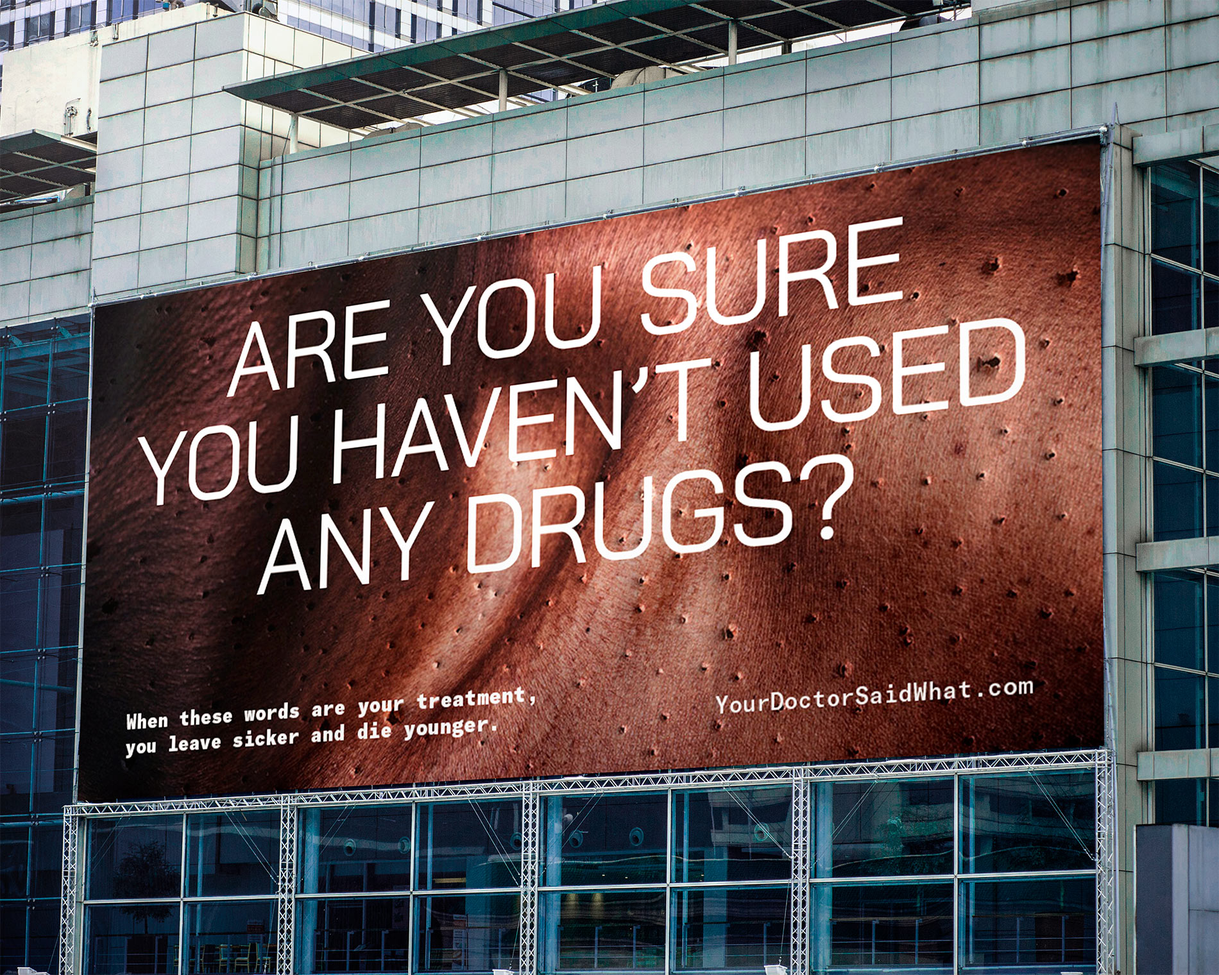
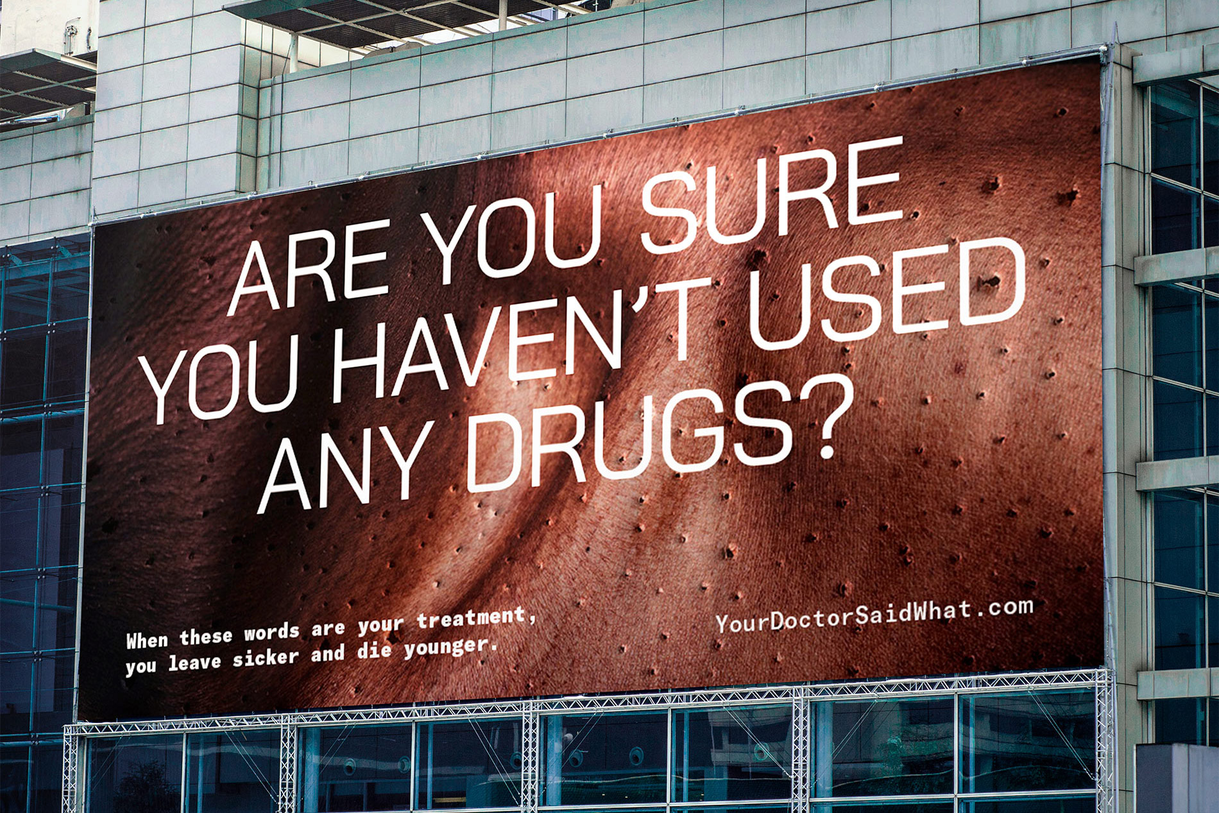
added and adjusted project images
adjusted ydsw project image, added afk image and description, reordered projects

diff --git a/work.html b/work.html
@@ -41,28 +41,28 @@
   <main class="work-wrapper">
     <section class="portfolio">
       <ul class="grid">
+      </li>
+      <li class="work-page-grid-item">
+        <figure>
+          <img src="assets/bpm/bpm-app-phone-mockup.jpg" alt="Describe your project">
+        </figure>
+        <a href="bpm.html">
+          <div class="overlay">
+            <h1 class="overlay-title">Bringing Musicians Together</h1>
+            <h4 class="overlay-description">Interactive</h4>
+          </div>
+        </a>
+
         <li class="work-page-grid-item">
           <figure>
-            <img src="assets/yapyap/yapyap-journaling-app-nwhacks.jpg" alt="Describe your project">
-          </figure>
-          <a href="yapyap.html">
-            <div class="overlay">
-              <h1 class="overlay-title">yapyap</h1>
-              <h4 class="overlay-description">Interactive</h4>
-            </div>
-          </a>
-        </li>
-        <li class="work-page-grid-item">
-          <figure>
-            <img src="assets/bpm/bpm-app-phone-mockup.jpg" alt="Describe your project">
+            <img src="assets/afk/afk-backpack-mockup.jpg" alt="Describe your project">
           </figure>
           <a href="bpm.html">
             <div class="overlay">
-              <h1 class="overlay-title">Bringing Musicians Together</h1>
-              <h4 class="overlay-description">Interactive</h4>
+              <h1 class="overlay-title">AFK</h1>
+              <h4 class="overlay-description">Branding</h4>
             </div>
           </a>
-        </li>
         <li class="work-page-grid-item">
           <figure>
             <img src="assets/your-doctor-said-what/your-doctor-said-what-billboard-mockup.jpg" alt="Describe your project">
@@ -74,17 +74,18 @@
             </div>
           </a>
         </li>
-        <li class="work-page-grid-item">
-          <figure>
-            <img src="https://s3-us-west-2.amazonaws.com/s.cdpn.io/316293/phone.jpg" alt="Describe your project">
-          </figure>
-          <a href="bpm.html">
-            <div class="overlay">
-              <h1 class="overlay-title">Text Overlay</h1>
-              <h4 class="overlay-description">Fine Art</h4>
-            </div>
-          </a>
-        </li>
+      </li>
+      <li class="work-page-grid-item">
+        <figure>
+          <img src="assets/yapyap/yapyap-journaling-app-nwhacks.jpg" alt="Describe your project">
+        </figure>
+        <a href="yapyap.html">
+          <div class="overlay">
+            <h1 class="overlay-title">yapyap</h1>
+            <h4 class="overlay-description">Interactive</h4>
+          </div>
+        </a>
+      </li>
        
       </ul>
     </section>
